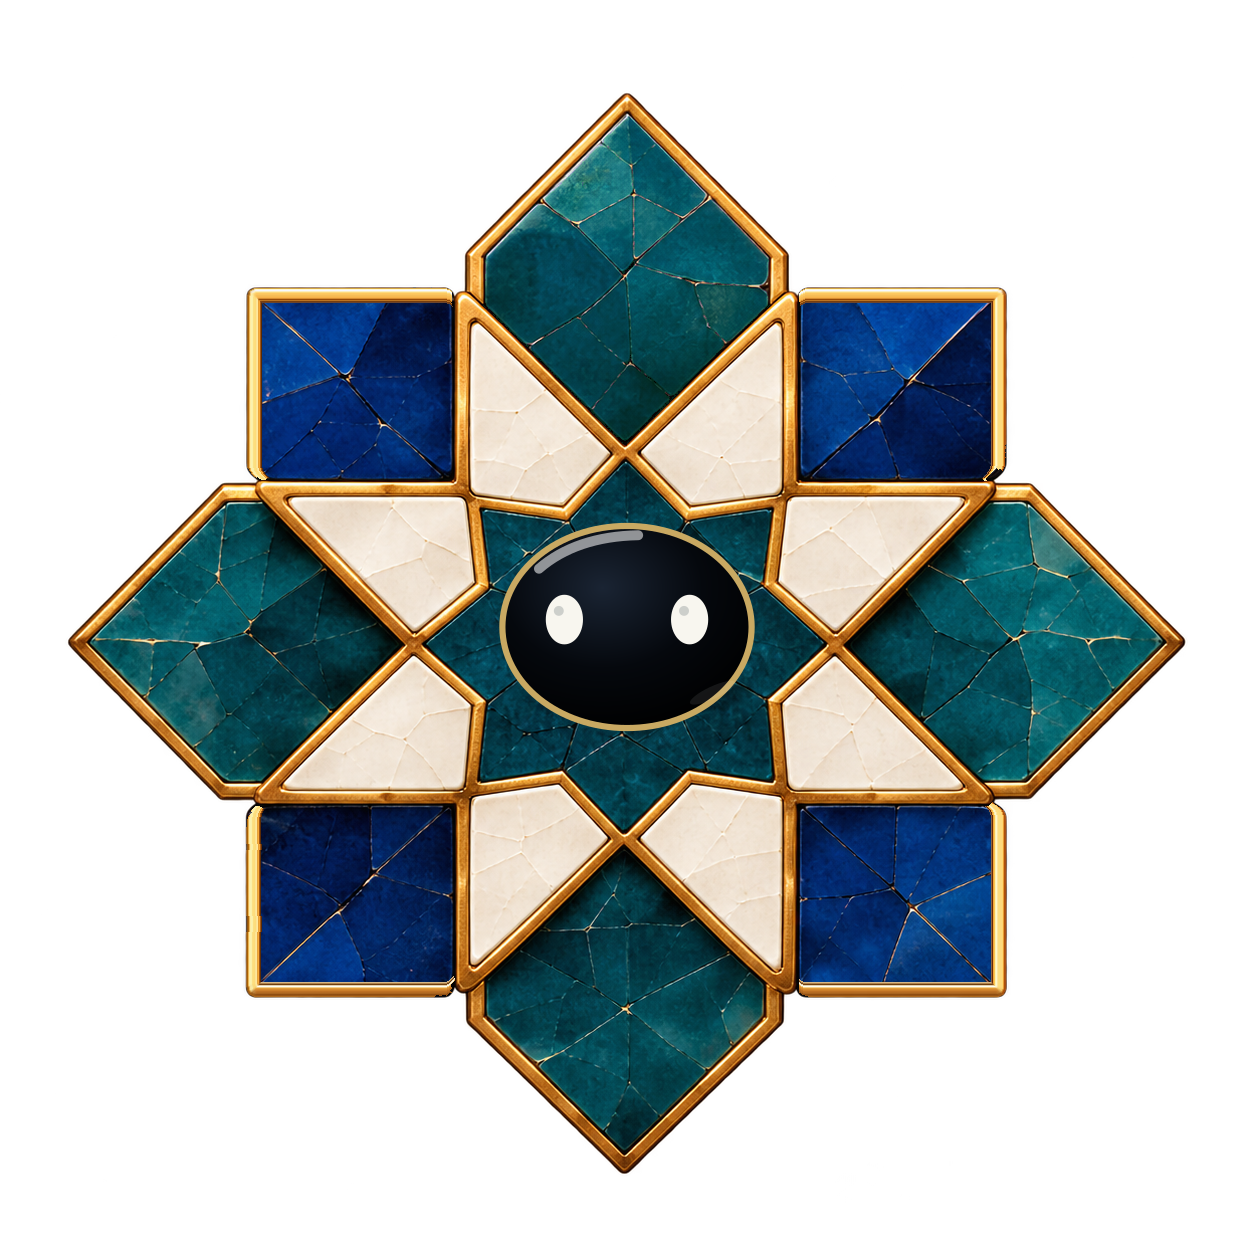
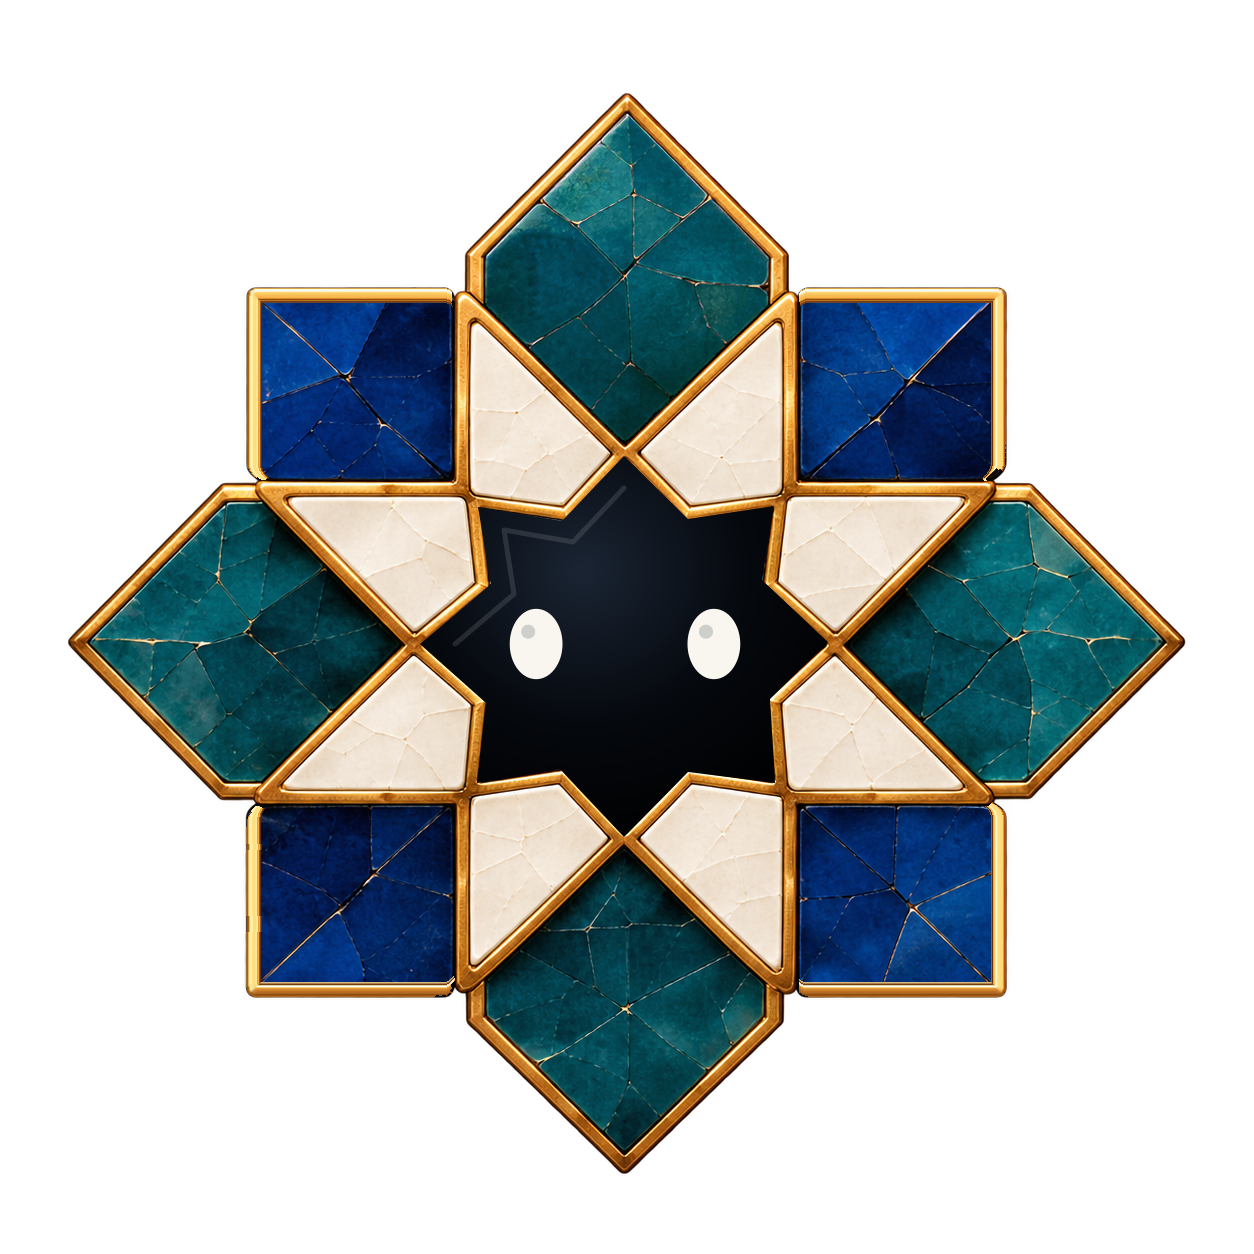
feat: give Zel an obsidian star face and let the hero emblem drift apart
Zel's face is now the whole centre star glazed in obsidian, inside its
brass rim, instead of an oval on it; the eyes grow to suit it and the
hero's face hit zone follows the star. Zel's mood images are regenerated.

Scrolling past the hero, the layers used to fall straight down with a
0.35 s transition meant for the hover lift, so they lagged the scroll and,
scrolling back up, caught up and snapped together; the assembled emblem
also faded back in before they had settled. Now they drift apart and fade,
outer ones first, the reverse of how the story assembles them, tied to
the scroll with no transition; the fly-in only holds before it starts, and
the assembled emblem swaps in instantly.

Changed region(s): [[0.3421, 0.3732, 0.6531, 0.6531]]

diff --git a/marketing/src/styles.css b/marketing/src/styles.css
@@ -369,9 +369,9 @@
 
 /* Hero: the emblem's layers fly in from beyond the screen and lock around Zel. */
 @media (prefers-reduced-motion: no-preference) {
-  .hero-intro .layer-points { animation: fly-in 1.1s 0.25s cubic-bezier(0.16, 0.9, 0.24, 1.04) both; --fly: 2.8; --spin: 24deg; }
-  .hero-intro .layer-cobalt { animation: fly-in 1.1s 0.55s cubic-bezier(0.16, 0.9, 0.24, 1.04) both; --fly: 2.1; --spin: -18deg; }
-  .hero-intro .layer-crown { animation: fly-in 1s 0.85s cubic-bezier(0.16, 0.9, 0.24, 1.04) both; --fly: 1.5; --spin: 12deg; }
+  .hero-intro .layer-points { animation: fly-in 1.1s 0.25s cubic-bezier(0.16, 0.9, 0.24, 1.04) backwards; --fly: 2.8; --spin: 24deg; }
+  .hero-intro .layer-cobalt { animation: fly-in 1.1s 0.55s cubic-bezier(0.16, 0.9, 0.24, 1.04) backwards; --fly: 2.1; --spin: -18deg; }
+  .hero-intro .layer-crown { animation: fly-in 1s 0.85s cubic-bezier(0.16, 0.9, 0.24, 1.04) backwards; --fly: 1.5; --spin: 12deg; }
   .hero-intro .layer-centre, .hero-intro .zel-face-layer { animation: centre-in 0.7s 1.35s cubic-bezier(0.3, 1.5, 0.5, 1) both; transform-origin: center; }
   .hero-intro .zel-whole { animation: whole-in 0.3s 2.05s backwards; }
   .hero-intro .hero-greeting { animation: pop 0.6s 2.1s cubic-bezier(0.3, 1.5, 0.5, 1) both; transform-origin: bottom left; }
@@ -382,17 +382,19 @@
   60% { opacity: 1; }
 }
 @layer components {
-  /* Scrolling away: the layers fall toward the story below, outer ones first. */
-  .hero-zel .layer-points { translate: 0 calc(var(--out, 0) * 150px); }
-  .hero-zel .layer-cobalt { translate: 0 calc(var(--out, 0) * 105px); }
-  .hero-zel .layer-crown { translate: 0 calc(var(--out, 0) * 65px); }
+  /* Scrolling away: the layers drift apart and fade, outer ones first, the reverse
+     of how the story below assembles them. Tied to the scroll, with no transition
+     on scale or opacity, so they never lag behind and snap back together. */
+  .hero-zel .layer-points { scale: calc(1 + var(--out, 0) * 0.6); opacity: calc(1 - var(--out, 0) * 1.1); }
+  .hero-zel .layer-cobalt { scale: calc(1 + var(--out, 0) * 0.42); opacity: calc(1 - var(--out, 0) * 0.9); }
+  .hero-zel .layer-crown { scale: calc(1 + var(--out, 0) * 0.26); opacity: calc(1 - var(--out, 0) * 0.7); }
   .hero-zel { opacity: max(0, calc(1 - var(--out, 0) * 1.6)); }
   /* Pointing at a layer lifts it and dims the rest. */
   .hero-zel .zel-layer { transition: translate 0.35s ease, filter 0.35s ease; }
   .lift-crown .zel-layer:not(.layer-centre, .layer-crown),
   .lift-cobalt .zel-layer:not(.layer-centre, .layer-cobalt),
   .lift-points .zel-layer:not(.layer-centre, .layer-points) { filter: saturate(0.3) brightness(0.92); opacity: 0.45; }
-  .hero-zel .zel-whole { opacity: calc(1 - var(--out, 0) * 100); }
+  .hero-zel .zel-whole { opacity: calc(1 - var(--out, 0) * 100); transition: none; }
   .lift-crown .zel-whole, .lift-cobalt .zel-whole, .lift-points .zel-whole { opacity: 0; }
   .lift-crown .layer-crown, .lift-cobalt .layer-cobalt, .lift-points .layer-points {
     translate: 0 -6px;

diff --git a/marketing/src/components/ZelFace.tsx b/marketing/src/components/ZelFace.tsx
@@ -4,12 +4,17 @@ export type Mood = "hello" | "look" | "thinking" | "excited" | "curious" | "focu
 export const moods: Mood[] = ["hello", "look", "thinking", "excited", "curious", "focused", "wink", "content"];
 
 /*
- * Zel's face: an obsidian oval with a brass rim on the emblem's centre star, and
- * one pair of eyes per mood. Drawn in the emblem's 1254-px space so it can sit on
- * top of the emblem image (web) or be composited onto it (scripts/build-brand.mjs).
- * Eye coordinates are at the original mascot's scale (oval at 622, 634; eyes at
- * x 521 / 723), scaled onto the star by the outer transform.
+ * Zel's face: the emblem's whole centre star glazed in obsidian, inside its brass
+ * rim, and one pair of eyes per mood. Drawn in the emblem's 1254-px space so it can
+ * sit on top of the emblem image (web) or be composited onto it
+ * (scripts/build-brand.mjs). Eye coordinates are at the original mascot's scale
+ * (eyes at x 521 / 723, y 622), scaled onto the star by the outer transform.
  */
+// The centre star's glaze, traced from brand/zellige-emblem.png (tips and inner
+// corners) and grown 2.5% so no teal shows between it and the rim.
+const STAR = "828,642 770,699 775,783 688,772 624,837 560,769 477,783 486,703 420,644 491,584 478,507 562,521 624,456 688,519 774,506 762,580";
+// Light catching the upper-left sides, just inside the rim.
+const GLINT = "455,644 514,594 504,530 573,542 624,488";
 const EYE_L = 521;
 const EYE_R = 723;
 const EYE_Y = 622;
@@ -77,11 +82,9 @@ export function ZelFace({ mood }: { mood: Mood }) {
           <stop offset="1" stopColor="#000" />
         </radialGradient>
       </defs>
-      <g className="zel-face" transform="translate(627 627) scale(0.62) translate(-622 -634)">
-        <ellipse cx="622" cy="634" rx="206" ry="168" fill="#c9a962" />
-        <ellipse cx="622" cy="634" rx="196" ry="158" fill={`url(#${gradient})`} />
-        <path d="M480 540Q540 488 640 486" fill="none" stroke="#fff" strokeOpacity=".55" strokeWidth="16" strokeLinecap="round" />
-        <ellipse cx="760" cy="740" rx="40" ry="10" fill="#fff" opacity=".08" transform="rotate(-25 760 740)" />
+      <polygon points={STAR} fill={`url(#${gradient})`} />
+      <polyline points={GLINT} fill="none" stroke="#fff" strokeOpacity=".12" strokeWidth="5" strokeLinecap="round" strokeLinejoin="round" />
+      <g className="zel-face" transform="translate(625 644) scale(0.88) translate(-622 -622)">
         <Eyes mood={mood} />
       </g>
     </>

diff --git a/marketing/src/components/Hero.tsx b/marketing/src/components/Hero.tsx
@@ -18,7 +18,7 @@ import { Wordmark } from "./Wordmark";
 /** Which layer the pointer is over, from its position relative to the emblem centre. */
 function layerAt(x: number, y: number): Piece | undefined {
   const r = Math.hypot(x, y);
-  if (r < 0.2 || r > 0.98) return undefined; // Zel's face, or outside the emblem
+  if (r < 0.26 || r > 0.98) return undefined; // Zel's face (the centre star), or outside the emblem
   if (Math.abs(x) > 0.2 && Math.abs(y) > 0.2 && Math.abs(Math.abs(x) - Math.abs(y)) < 0.28) {
     return r < 0.4 ? "crown" : "cobalt"; // the diagonals: kites near the centre, corner squares beyond
   }
